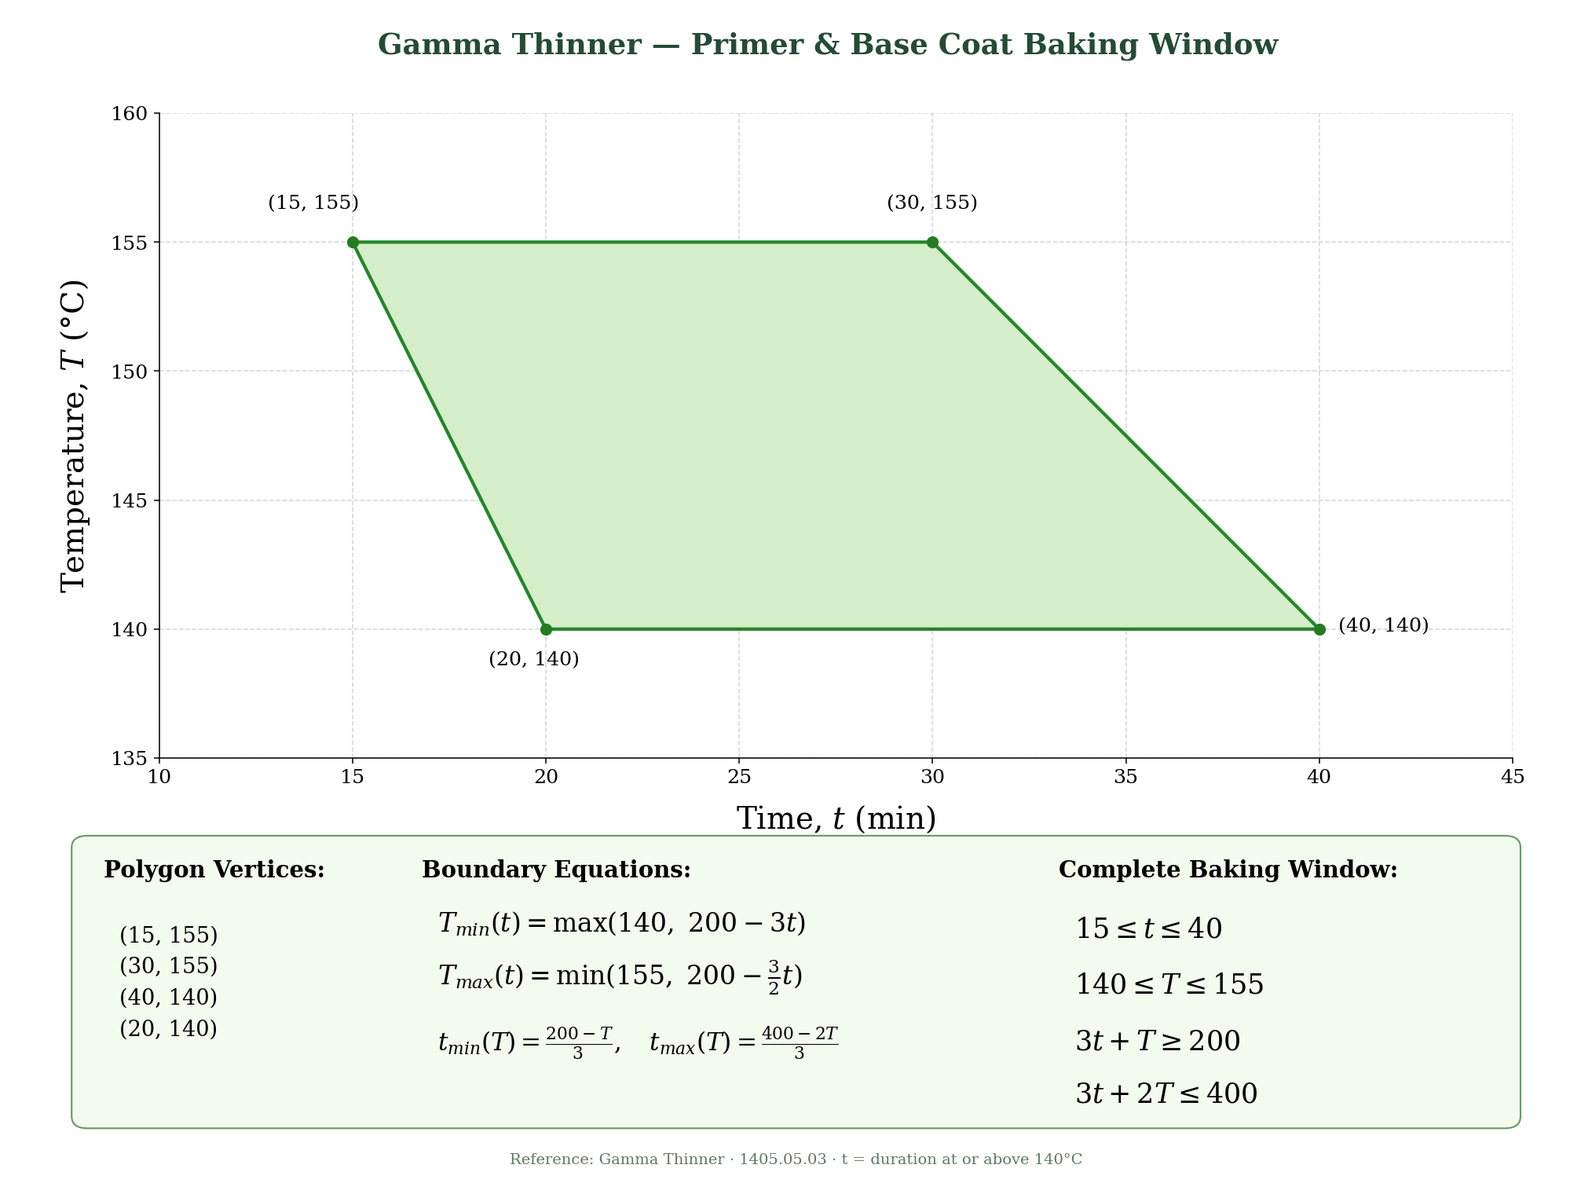
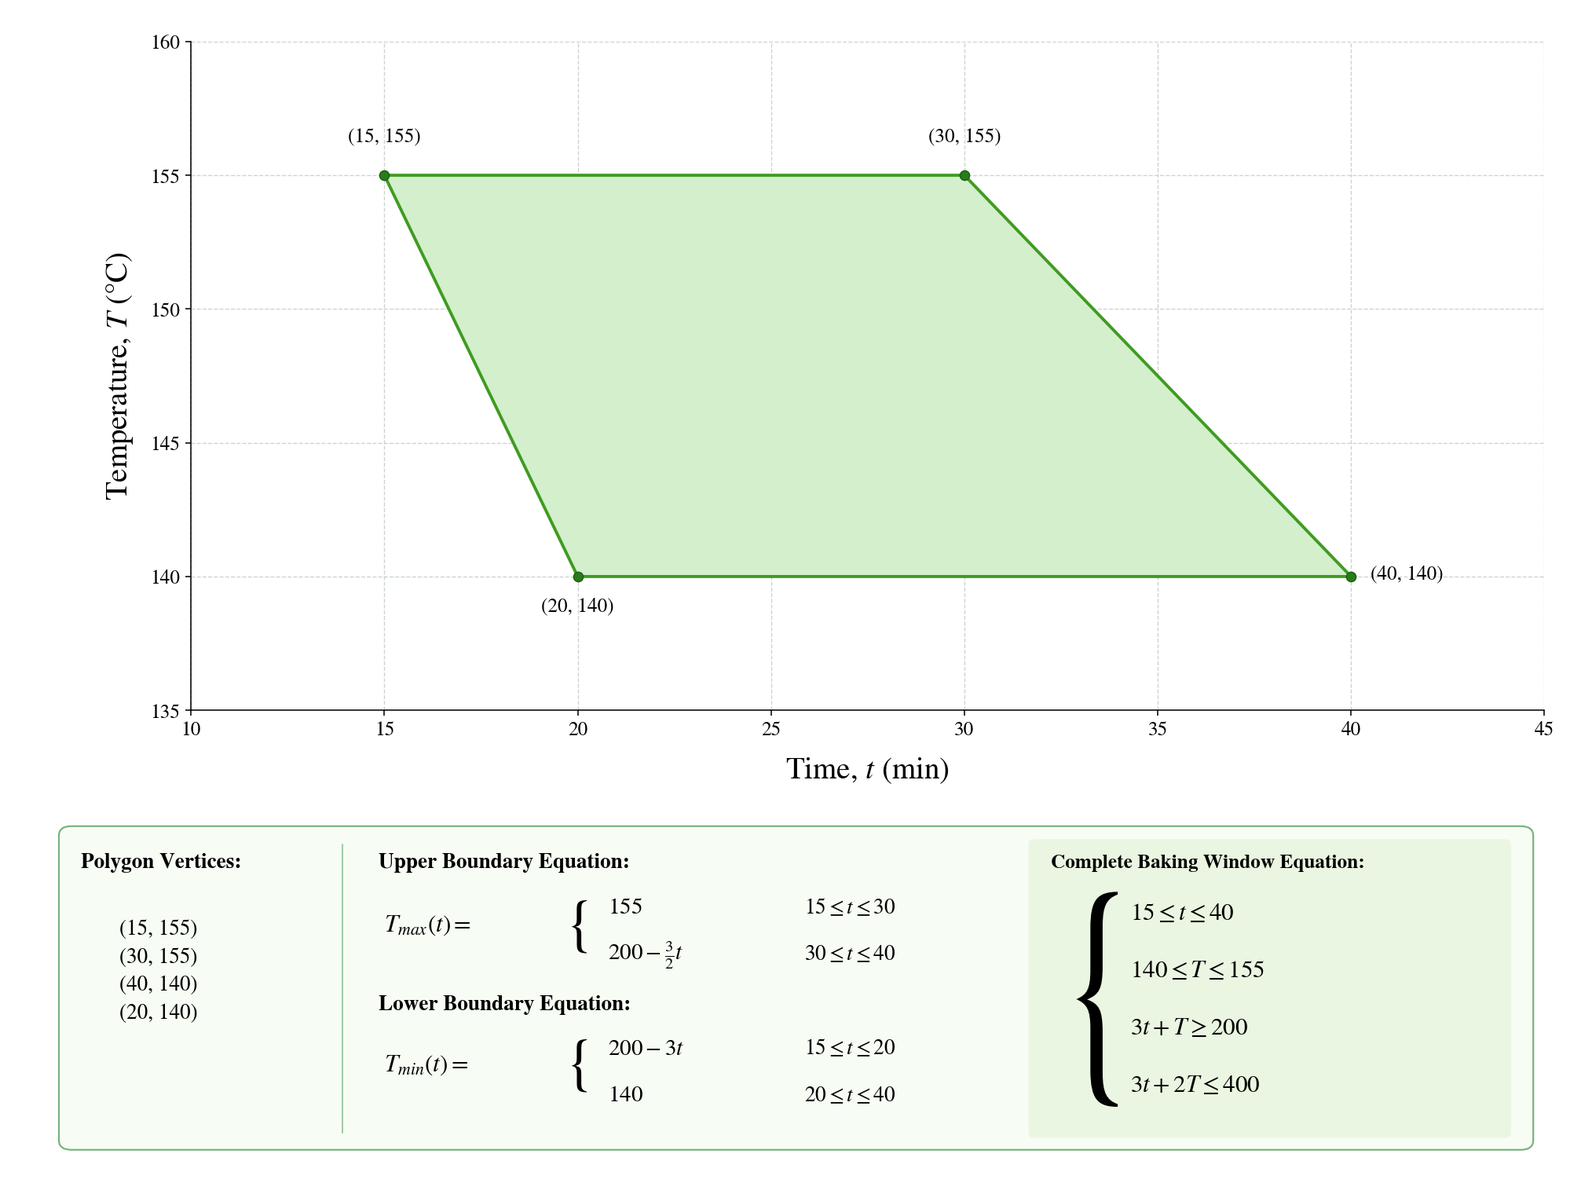
Add four-oven daily summary reporting and match Gamma reference artwork to ED styling

diff --git a/daily-report.js b/daily-report.js
@@ -1,0 +1,84 @@
+/* Daily summaries keep their own uploads and never change the oven workspaces. */
+'use strict';
+(function(){
+  const ovens=[{id:'ed',name:'ED Oven',reference:'ed'},{id:'primer',name:'Primer Oven',reference:'primer'},{id:'sealer',name:'Sealer Oven',reference:''},{id:'bc',name:'Base Coat Oven',reference:'primer'}];
+  const slots=Object.fromEntries(ovens.map(o=>[o.id,{reference:o.reference,records:[],sheet:0,name:'',error:'',warnings:[],pending:false,version:0}]));
+  const state={date:''};
+  let refreshActive=null;
+  const esc=value=>String(value??'').replace(/[&<>"']/g,c=>({'&':'&amp;','<':'&lt;','>':'&gt;','"':'&quot;',"'":'&#39;'}[c]));
+  function normalizeDate(value){
+    const text=String(value||'').trim().replace(/[۰-۹٠-٩]/g,c=>{const n=c.charCodeAt(0);return String(n>=1776?n-1776:n-1632);});
+    const match=text.match(/^(\d{4})-(\d{2})-(\d{2})$/);
+    if(!match)return null;
+    const [,year,month,day]=match.map(Number);
+    if(year<1300||year>2099||month<1||month>12||day<1)return null;
+    const max=year<1700?(month<=6?31:30):new Date(Date.UTC(year,month,0)).getUTCDate();
+    return day<=max?text:null;
+  }
+  function entries(){
+    return ovens.map(oven=>{
+      const slot=slots[oven.id],reference=window.BAMCOBakingWindows.get(slot.reference),record=slot.records[slot.sheet];
+      if(!reference)throw Error('Select a baking-window manufacturer for '+oven.name+'.');
+      if(slot.pending)throw Error('Wait for '+oven.name+' to finish loading.');
+      if(!record)throw Error('Upload a valid Excel file for '+oven.name+'.');
+      const results=window.BAMCOEnhance.evaluate(record,slot.reference);
+      if(!results.length)throw Error('No channel cards are available for '+oven.name+'.');
+      return {results,options:{ovenName:oven.name,manufacturer:reference.manufacturer}};
+    });
+  }
+  function open(host,onBack){
+    const references=window.BAMCOBakingWindows.references();
+    host.innerHTML='<div class="daily-report-container"><div class="window-topbar"><div><span class="window-eyebrow">THERMAL WORKSPACE</span><h1>Daily report</h1></div><button type="button" class="window-change-oven" data-daily-back>← Back to ovens</button></div>'
+      +'<form class="daily-report-form"><div class="daily-date-row"><div><h2>Four ovens. One daily summary.</h2><p>Upload one workbook for each oven. Each summary gets its own A4 landscape page.</p></div><label for="daily-date">Report date<input id="daily-date" type="text" inputmode="numeric" dir="ltr" placeholder="1405-06-05" autocomplete="off" required value="'+esc(state.date)+'"><small>YYYY-MM-DD · entered manually</small></label></div>'
+      +'<div class="daily-oven-grid">'+ovens.map(oven=>'<section class="daily-oven-card" data-daily-slot="'+oven.id+'"><h3>'+oven.name+'</h3><label for="daily-reference-'+oven.id+'">Baking-window manufacturer</label><select id="daily-reference-'+oven.id+'" data-daily-reference="'+oven.id+'" required><option value="">Select manufacturer</option>'+references.map(ref=>'<option value="'+ref.id+'" '+(slots[oven.id].reference===ref.id?'selected':'')+'>'+esc(ref.name)+'</option>').join('')+'</select>'
+        +(oven.id==='sealer'?'<small class="daily-reference-note">Choose the supplied reference that applies to this oven.</small>':'')
+        +'<label for="daily-file-'+oven.id+'">Excel recording</label><input id="daily-file-'+oven.id+'" data-daily-file="'+oven.id+'" type="file" accept=".xls,.xlsx"><div class="daily-slot-status" aria-live="polite"></div><div class="daily-sheet-picker"></div></section>').join('')+'</div>'
+      +'<div class="daily-report-footer"><p class="daily-report-error" role="alert"></p><button type="submit" class="primary-action">Download daily summary PDF <span aria-hidden="true">→</span></button><small>4 pages · ED / Primer / Sealer / Base Coat</small></div></form></div>';
+    const form=host.querySelector('.daily-report-form'),date=form.querySelector('#daily-date'),error=form.querySelector('.daily-report-error'),button=form.querySelector('[type="submit"]');
+    let generating=false;
+    host.querySelector('[data-daily-back]').addEventListener('click',()=>{state.date=date.value;refreshActive=null;onBack();});
+    date.addEventListener('input',()=>{state.date=date.value;error.textContent='';date.setCustomValidity('');});
+    function update(id){
+      const slot=slots[id],card=form.querySelector('[data-daily-slot="'+id+'"]');
+      card.querySelector('.daily-slot-status').textContent=slot.pending?'Reading workbook…':slot.error||slot.name;
+      card.querySelector('.daily-slot-status').classList.toggle('has-error',!!slot.error);
+      card.querySelector('.daily-sheet-picker').innerHTML=slot.records.length>1?'<label for="daily-sheet-'+id+'">Worksheet</label><select id="daily-sheet-'+id+'" data-daily-sheet="'+id+'">'+slot.records.map((record,i)=>'<option value="'+i+'" '+(slot.sheet===i?'selected':'')+'>'+esc(record.sheetName)+'</option>').join('')+'</select>':slot.warnings.length?'<small>'+esc(slot.warnings.join('; '))+'</small>':'';
+      button.disabled=generating||Object.values(slots).some(s=>s.pending);
+    }
+    refreshActive=()=>ovens.forEach(o=>update(o.id));
+    refreshActive();
+    form.addEventListener('change',async event=>{
+      const target=event.target,id=target.dataset.dailyFile;
+      error.textContent='';
+      if(target.dataset.dailyReference){slots[target.dataset.dailyReference].reference=target.value;return;}
+      if(target.dataset.dailySheet){slots[target.dataset.dailySheet].sheet=Number(target.value);return;}
+      if(!id)return;
+      const slot=slots[id],file=target.files?.[0];
+      // A cancelled file dialog retains the previous selection.
+      if(!file)return;
+      const version=++slot.version;
+      Object.assign(slot,{records:[],sheet:0,name:file.name,error:'',warnings:[],pending:true});update(id);
+      try{
+        const parsed=await window.BAMCO_CORE.readWorkbook(file);
+        if(version!==slot.version)return;
+        if(!parsed.records.length)throw Error(parsed.errors.join('; ')||'No valid readings table was found.');
+        slot.records=parsed.records;slot.warnings=parsed.errors;
+      }catch(problem){if(version===slot.version)slot.error=problem.message;}
+      finally{if(version===slot.version){slot.pending=false;refreshActive?.();}}
+    });
+    form.addEventListener('submit',async event=>{
+      event.preventDefault();if(generating)return;error.textContent='';
+      const reportDate=normalizeDate(date.value);
+      if(!reportDate){error.textContent='Enter a valid report date, for example 1405-06-05.';date.focus();return;}
+      state.date=reportDate;date.value=reportDate;
+      try{
+        const pages=entries();
+        generating=true;button.disabled=true;button.setAttribute('aria-busy','true');button.textContent='Creating four-page PDF…';
+        await window.BAMCOSummaryPDF.downloadReport(pages,reportDate);
+      }catch(problem){error.textContent=problem.message;}
+      finally{generating=false;button.disabled=generating||Object.values(slots).some(s=>s.pending);button.removeAttribute('aria-busy');button.textContent='Download daily summary PDF →';}
+    });
+    window.scrollTo({top:0,left:0,behavior:'instant'});
+  }
+  window.BAMCODailyReport={open};
+})();

diff --git a/summary-pdf.js b/summary-pdf.js
@@ -5,7 +5,7 @@
   function details(options={}){
     const ovenName=String(options.ovenName||'Oven');
     const recordingDate=options.recordingDate||null;
-    return {ovenName,recordingDate};
+    return {ovenName,recordingDate,manufacturer:String(options.manufacturer||'')};
   }
   const pdfString=value=>'<FEFF'+Array.from({length:String(value).length},(_,i)=>String(value).charCodeAt(i).toString(16).padStart(4,'0')).join('')+'>';
   const finite=Number.isFinite;
@@ -59,6 +59,7 @@
     };
     text('Summary',24,43,27,'#25443b',true);
     text(info.ovenName,24,64,12,'#536d60',true);
+    if(info.manufacturer)text(info.manufacturer,PAGE_W-24,64,10,'#536d60',false,'right');
     text('Date: '+(info.recordingDate||'Not available'),PAGE_W-24,43,11,'#536d60',false,'right');
     const grid=layout(results.length),cw=240*grid.scale,ch=280*grid.scale;
     const gridHeight=grid.rows*ch+(grid.rows-1)*grid.gap;
@@ -100,28 +101,32 @@
       ctx.restore();
     });
   }
-  // Wrap a high-resolution page image in a minimal, standards-compliant PDF.
-  function pdfBytes(jpeg,width,height,info){
+  // One image per landscape A4 page; every oven retains its own summary page.
+  function pdfBytes(pages,title){
     const encoder=new TextEncoder(),parts=[],offsets=[0];let length=0;
     const append=value=>{const bytes=typeof value==='string'?encoder.encode(value):value;parts.push(bytes);length+=bytes.length;};
     const object=(id,body)=>{offsets[id]=length;append(id+' 0 obj\n'+body+'\nendobj\n');};
     append('%PDF-1.4\n');
     object(1,'<< /Type /Catalog /Pages 2 0 R >>');
-    object(2,'<< /Type /Pages /Kids [3 0 R] /Count 1 >>');
-    object(3,'<< /Type /Page /Parent 2 0 R /MediaBox [0 0 '+PAGE_W+' '+PAGE_H+'] /Resources << /XObject << /PageImage 4 0 R >> >> /Contents 5 0 R >>');
-    offsets[4]=length;
-    append('4 0 obj\n<< /Type /XObject /Subtype /Image /Width '+width+' /Height '+height+' /ColorSpace /DeviceRGB /BitsPerComponent 8 /Filter /DCTDecode /Length '+jpeg.length+' >>\nstream\n');
-    append(jpeg);append('\nendstream\nendobj\n');
-    const commands='q\n'+PAGE_W+' 0 0 '+PAGE_H+' 0 0 cm\n/PageImage Do\nQ\n';
-    object(5,'<< /Length '+encoder.encode(commands).length+' >>\nstream\n'+commands+'endstream');
-    object(6,'<< /Title '+pdfString('Summary - '+info.ovenName+' - '+(info.recordingDate||'Undated'))+' /Subject (Baking analysis cards) /Creator (BAMCO Paint Shop) >>');
-    const xref=length;append('xref\n0 7\n0000000000 65535 f \n');
-    for(let i=1;i<=6;i++)append(String(offsets[i]).padStart(10,'0')+' 00000 n \n');
-    append('trailer\n<< /Size 7 /Root 1 0 R /Info 6 0 R >>\nstartxref\n'+xref+'\n%%EOF\n');
+    object(2,'<< /Type /Pages /Kids ['+pages.map((_,i)=>(3+i*3)+' 0 R').join(' ')+'] /Count '+pages.length+' >>');
+    pages.forEach(({jpeg,width,height},i)=>{
+      const pageId=3+i*3,imageId=pageId+1,contentId=pageId+2;
+      object(pageId,'<< /Type /Page /Parent 2 0 R /MediaBox [0 0 '+PAGE_W+' '+PAGE_H+'] /Resources << /XObject << /PageImage '+imageId+' 0 R >> >> /Contents '+contentId+' 0 R >>');
+      offsets[imageId]=length;
+      append(imageId+' 0 obj\n<< /Type /XObject /Subtype /Image /Width '+width+' /Height '+height+' /ColorSpace /DeviceRGB /BitsPerComponent 8 /Filter /DCTDecode /Length '+jpeg.length+' >>\nstream\n');
+      append(jpeg);append('\nendstream\nendobj\n');
+      const commands='q\n'+PAGE_W+' 0 0 '+PAGE_H+' 0 0 cm\n/PageImage Do\nQ\n';
+      object(contentId,'<< /Length '+encoder.encode(commands).length+' >>\nstream\n'+commands+'endstream');
+    });
+    const infoId=3+pages.length*3,size=infoId+1;
+    object(infoId,'<< /Title '+pdfString(title)+' /Subject (Baking analysis cards) /Creator (BAMCO Paint Shop) >>');
+    const xref=length;append('xref\n0 '+size+'\n0000000000 65535 f \n');
+    for(let i=1;i<size;i++)append(String(offsets[i]).padStart(10,'0')+' 00000 n \n');
+    append('trailer\n<< /Size '+size+' /Root 1 0 R /Info '+infoId+' 0 R >>\nstartxref\n'+xref+'\n%%EOF\n');
     const output=new Uint8Array(length);let position=0;
     parts.forEach(bytes=>{output.set(bytes,position);position+=bytes.length;});return output;
   }
-  async function build(results,options={}){
+  async function pageImage(results,options={}){
     if(!Array.isArray(results)||!results.length)throw Error('No channel cards are available to export.');
     const info=details(options);
     if(document.fonts?.ready)await document.fonts.ready;
@@ -131,14 +136,31 @@
     ctx.scale(canvas.width/PAGE_W,canvas.height/PAGE_H);draw(ctx,results,info);
     const data=atob(canvas.toDataURL('image/jpeg',.96).split(',')[1]);
     const jpeg=Uint8Array.from(data,char=>char.charCodeAt(0));
-    return pdfBytes(jpeg,canvas.width,canvas.height,info);
+    return {jpeg,width:canvas.width,height:canvas.height,info};
   }
-  async function download(results,options={}){
-    const info=details(options);
-    const bytes=await build(results,info),url=URL.createObjectURL(new Blob([bytes],{type:'application/pdf'}));
-    const ovenFile=info.ovenName.replace(/[<>:"/\\|?*\x00-\x1F]/g,'_').trim().replace(/\s+/g,'_');
-    const a=document.createElement('a');a.href=url;a.download='Summary_'+ovenFile+'_'+(info.recordingDate||'Undated')+'.pdf';document.body.appendChild(a);
+  async function build(results,options={}){
+    const page=await pageImage(results,options),info=page.info;
+    return pdfBytes([page],'Summary - '+info.ovenName+' - '+(info.recordingDate||'Undated'));
+  }
+  async function buildReport(entries,recordingDate){
+    if(!Array.isArray(entries)||entries.length!==4)throw Error('Select one recording for each of the four ovens.');
+    if(!recordingDate)throw Error('Enter the report date.');
+    const pages=[];
+    for(const entry of entries)pages.push(await pageImage(entry.results,{...entry.options,recordingDate}));
+    return pdfBytes(pages,'Daily Summary - '+recordingDate);
+  }
+  function save(bytes,filename){
+    const url=URL.createObjectURL(new Blob([bytes],{type:'application/pdf'}));
+    const a=document.createElement('a');a.href=url;a.download=filename;document.body.appendChild(a);
     a.click();a.remove();setTimeout(()=>URL.revokeObjectURL(url),60000);
   }
-  window.BAMCOSummaryPDF={build,download};
+  async function download(results,options={}){
+    const info=details(options),bytes=await build(results,info);
+    const ovenFile=info.ovenName.replace(/[<>:"/\\|?*\x00-\x1F]/g,'_').trim().replace(/\s+/g,'_');
+    save(bytes,'Summary_'+ovenFile+'_'+(info.recordingDate||'Undated')+'.pdf');
+  }
+  async function downloadReport(entries,recordingDate){
+    save(await buildReport(entries,recordingDate),'Daily_Summary_'+recordingDate+'.pdf');
+  }
+  window.BAMCOSummaryPDF={build,download,buildReport,downloadReport};
 })();

diff --git a/layout-refinement.css b/layout-refinement.css
@@ -233,3 +233,45 @@ body.bamco-entered:not([data-section="upload"]) .stage-layout > .chart-panel {
   #bamco-gateway:has(.gate-header-slot) {padding:22px 28px 18px;}
   #bamco-gateway .gate-container:has(.gate-header-slot) {max-width:1920px;}
 }
+
+/* Daily reporting sits directly below the four oven cards. */
+#bamco-gateway .daily-entry {display:flex;align-items:center;justify-content:space-between;gap:20px;margin-top:16px;padding:16px 22px;border:1px solid #dce7e1;border-radius:16px;background:#f7fbf8;}
+#bamco-gateway .daily-entry h2 {margin:0 0 4px;font-size:20px;color:#25443b;}
+#bamco-gateway .daily-entry p {margin:0;color:#71867a;font-size:14px;}
+#bamco-gateway .daily-entry .primary-action,#bamco-gateway .daily-report-footer .primary-action {color:#fff;white-space:nowrap;}
+#bamco-gateway .daily-report-container {max-width:1440px;margin:0 auto;}
+#bamco-gateway:has(.daily-report-container) {height:auto;min-height:100dvh;overflow:visible;}
+body:not(.bamco-entered):has(.daily-report-container) {overflow:auto;}
+.daily-report-form {margin-top:26px;border:1px solid #dce7e1;border-radius:20px;padding:26px;background:#fff;}
+.daily-date-row {display:flex;align-items:center;justify-content:space-between;gap:24px;padding-bottom:24px;}
+.daily-date-row h2 {margin:0 0 8px;font-size:26px;color:#25443b;}
+.daily-date-row p {margin:0;color:#71867a;line-height:1.6;}
+.daily-report-form label {display:block;font-size:13px;font-weight:bold;color:#426454;margin-bottom:9px;}
+.daily-report-form input:not([type=file]),.daily-report-form select {display:block;width:100%;margin-top:8px;background:#fff;border:1px solid #d4e3d9;border-radius:9px;padding:11px 12px;color:#25443b;font-size:15px;min-height:44px;}
+.daily-date-row>label {min-width:220px;}
+.daily-report-form small {display:block;color:#71867a;font-size:12px;line-height:1.5;margin-top:7px;font-weight:normal;}
+.daily-oven-grid {display:grid;grid-template-columns:repeat(4,minmax(0,1fr));gap:17px;}
+.daily-oven-card {min-width:0;padding:20px;border:1px solid #dce7e1;border-radius:14px;background:#fbfdfb;}
+.daily-oven-card h3 {margin:0 0 22px;color:#25443b;font-size:22px;}
+.daily-oven-card input[type=file] {display:block;max-width:100%;font-size:12px;color:#536d60;}
+.daily-oven-card input[type=file]::file-selector-button {background:#edf6f0;border:1px solid #d4e3d9;border-radius:8px;padding:10px;color:#285f48;cursor:pointer;margin-right:8px;}
+.daily-oven-card select {margin-bottom:19px;}
+.daily-oven-card .daily-reference-note {margin:-10px 0 18px;}
+.daily-slot-status {overflow-wrap:anywhere;margin-top:13px;line-height:1.5;color:#386c50;font-size:13px;}
+.daily-slot-status.has-error,.daily-report-error {color:#b83c46;}
+.daily-report-footer {display:flex;align-items:center;flex-wrap:wrap;gap:14px;margin-top:24px;}
+.daily-report-error {flex:0 0 100%;margin:0;}
+.daily-report-error:empty {display:none;}
+.daily-report-form input:focus-visible,.daily-report-form select:focus-visible {outline:2px solid #478f71;outline-offset:2px;}
+@media (min-width:901px) and (min-height:570px) {
+ #bamco-gateway .gate-container:has(.daily-entry) {grid-template-rows:auto auto auto auto;}
+ #bamco-gateway:has(.daily-entry) .gate-intro {margin:clamp(18px,3dvh,28px) 0;}
+ #bamco-gateway:has(.daily-entry) .gate-intro h1 {font-size:clamp(32px,4.8dvh,50px);}
+ #bamco-gateway:has(.daily-entry) .oven-grid .oven-choice {height:clamp(218px,calc(100dvh - 380px),320px);padding:18px;}
+ #bamco-gateway:has(.daily-entry) .oven-grid .oven-graphic {width:52px;height:52px;flex-basis:52px;margin-bottom:14px;}
+ #bamco-gateway:has(.daily-entry) .oven-grid .oven-choice strong {font-size:22px;margin-bottom:8px;}
+ #bamco-gateway:has(.daily-entry) .oven-grid .oven-choice small {font-size:14px;}
+ #bamco-gateway:has(.daily-entry) .oven-grid .oven-cta {padding-top:12px;}
+}
+@media(max-width:1100px){.daily-oven-grid{grid-template-columns:repeat(2,minmax(0,1fr));}}
+@media(max-width:600px){.daily-oven-grid{grid-template-columns:1fr;}.daily-date-row,#bamco-gateway .daily-entry{flex-direction:column;align-items:stretch;}.daily-report-form{padding:18px;}.daily-date-row>label{min-width:0;}}

diff --git a/enhancements.js b/enhancements.js
@@ -126,6 +126,7 @@
       gateway.innerHTML='<div class="gate-container"><div class="gate-header-slot"></div>'
       +'<div class="gate-intro"><h1>Precision starts with <span>every degree.</span></h1></div>'
       +'<div class="oven-grid">'+ovens.map(o=>'<button class="oven-choice" data-oven="'+o.id+'"><span class="oven-number">'+o.symbol+'</span><span class="oven-graphic" aria-hidden="true">'+ovenIcon(o.id)+'</span><strong>'+o.name+'</strong><small>'+o.description+'</small><span class="oven-cta">Select oven →</span></button>').join('')+'</div>'
+      +'<div class="daily-entry"><div><h2>Daily report</h2><p>Four oven summaries in one PDF.</p></div><button type="button" class="primary-action" data-open-daily>Create daily report →</button></div>'
       +'</div>';
     } else {
       gateway.innerHTML='<div class="gate-container gate-window-container">'
@@ -391,6 +392,7 @@
     document.addEventListener('click',function(e){
       const b=e.target.closest('button');if(!b)return;
       if(b.dataset.oven){choice=b.dataset.oven;step=2;renderGate();scrollToPageTop();requestAnimationFrame(scrollToPageTop);}
+      else if(b.hasAttribute('data-open-daily'))window.BAMCODailyReport.open(gateway,renderGate);
       else if(b.hasAttribute('data-go-back')){step=1;renderGate();scrollToPageTop();requestAnimationFrame(scrollToPageTop);}
       else if(b.hasAttribute('data-enter'))enter();
       else if(b.hasAttribute('data-change-oven'))openGate();

diff --git a/index.html b/index.html
@@ -9,12 +9,13 @@
   <link rel="stylesheet" href="enhancements.css?v=20261021-19">
   <link rel="stylesheet" href="design.css?v=20261021-13">
   <link rel="stylesheet" href="comparison.css?v=20261021-21">
-  <link rel="stylesheet" href="layout-refinement.css?v=20261021-8">
+  <link rel="stylesheet" href="layout-refinement.css?v=20261021-9">
   
-  <script defer src="baking-windows.js?v=20261021-1"></script>
-  <script defer src="app.js?v=20261021-19"></script>
-  <script defer src="summary-pdf.js?v=20261021-4"></script>
-  <script defer src="enhancements.js?v=20261021-30"></script>
+  <script defer src="baking-windows.js?v=20261021-2"></script>
+  <script defer src="app.js?v=20261021-20"></script>
+  <script defer src="summary-pdf.js?v=20261021-5"></script>
+  <script defer src="daily-report.js?v=20261021-1"></script>
+  <script defer src="enhancements.js?v=20261021-31"></script>
   <script defer src="comparison.js?v=20261021-23"></script>
 </head>
 <body>

diff --git a/baking-windows.js b/baking-windows.js
@@ -25,7 +25,7 @@
   // Shared by Primer and Base Coat as specified by the user.
   const gamma={
     name:'Gamma Thinner Baking Window',manufacturer:'Gamma Thinner',shortManufacturer:'Gamma Thinner',
-    image:'assets/gamma-baking-window.png?v=20261021-1',
+    image:'assets/gamma-baking-window.png?v=20261021-2',
     threshold:140,minDuration:15,maxDuration:40,minTemp:140,maxTemp:155,
     vertices:[[15,155],[30,155],[40,140],[20,140]],
     xRange:[10,45],yRange:[135,160],xTicks:[10,15,20,25,30,35,40,45],yTicks:[135,140,145,150,155,160],
@@ -43,5 +43,6 @@
     ]
   };
   const windows={ed,primer:gamma,bc:gamma};
-  window.BAMCOBakingWindows={get:stage=>windows[stage]||null};
+  window.BAMCOBakingWindows={get:stage=>windows[stage]||null,
+    references:()=>[{id:'ed',name:ed.manufacturer},{id:'primer',name:gamma.manufacturer}]};
 })();

diff --git a/app.js b/app.js
@@ -623,7 +623,8 @@ async function downloadExcel(){
   const blob=new Blob([await wb.xlsx.writeBuffer()],{type:'application/vnd.openxmlformats-officedocument.spreadsheetml.sheet'});saveBlob(blob,fileName(r)+'_report.xlsx');
  }catch(e){alert('Excel export failed: '+e.message);}finally{btn.disabled=false;}
 }
-window.BAMCO_CORE={getStage:()=>tab,getRecord:record,getFile:file,getState:current,chooseTab,renderPlots};
+window.BAMCO_CORE={getStage:()=>tab,getRecord:record,getFile:file,getState:current,chooseTab,renderPlots,
+ readWorkbook:async input=>{await ensureXLSX();return readFile(input);}};
 function init(){document.querySelectorAll('[data-stage]').forEach(btn=>btn.onclick=()=>chooseTab(btn.dataset.stage));chooseTab(tab);}
 if(document.readyState==='loading')document.addEventListener('DOMContentLoaded',init);else init();
 })();
